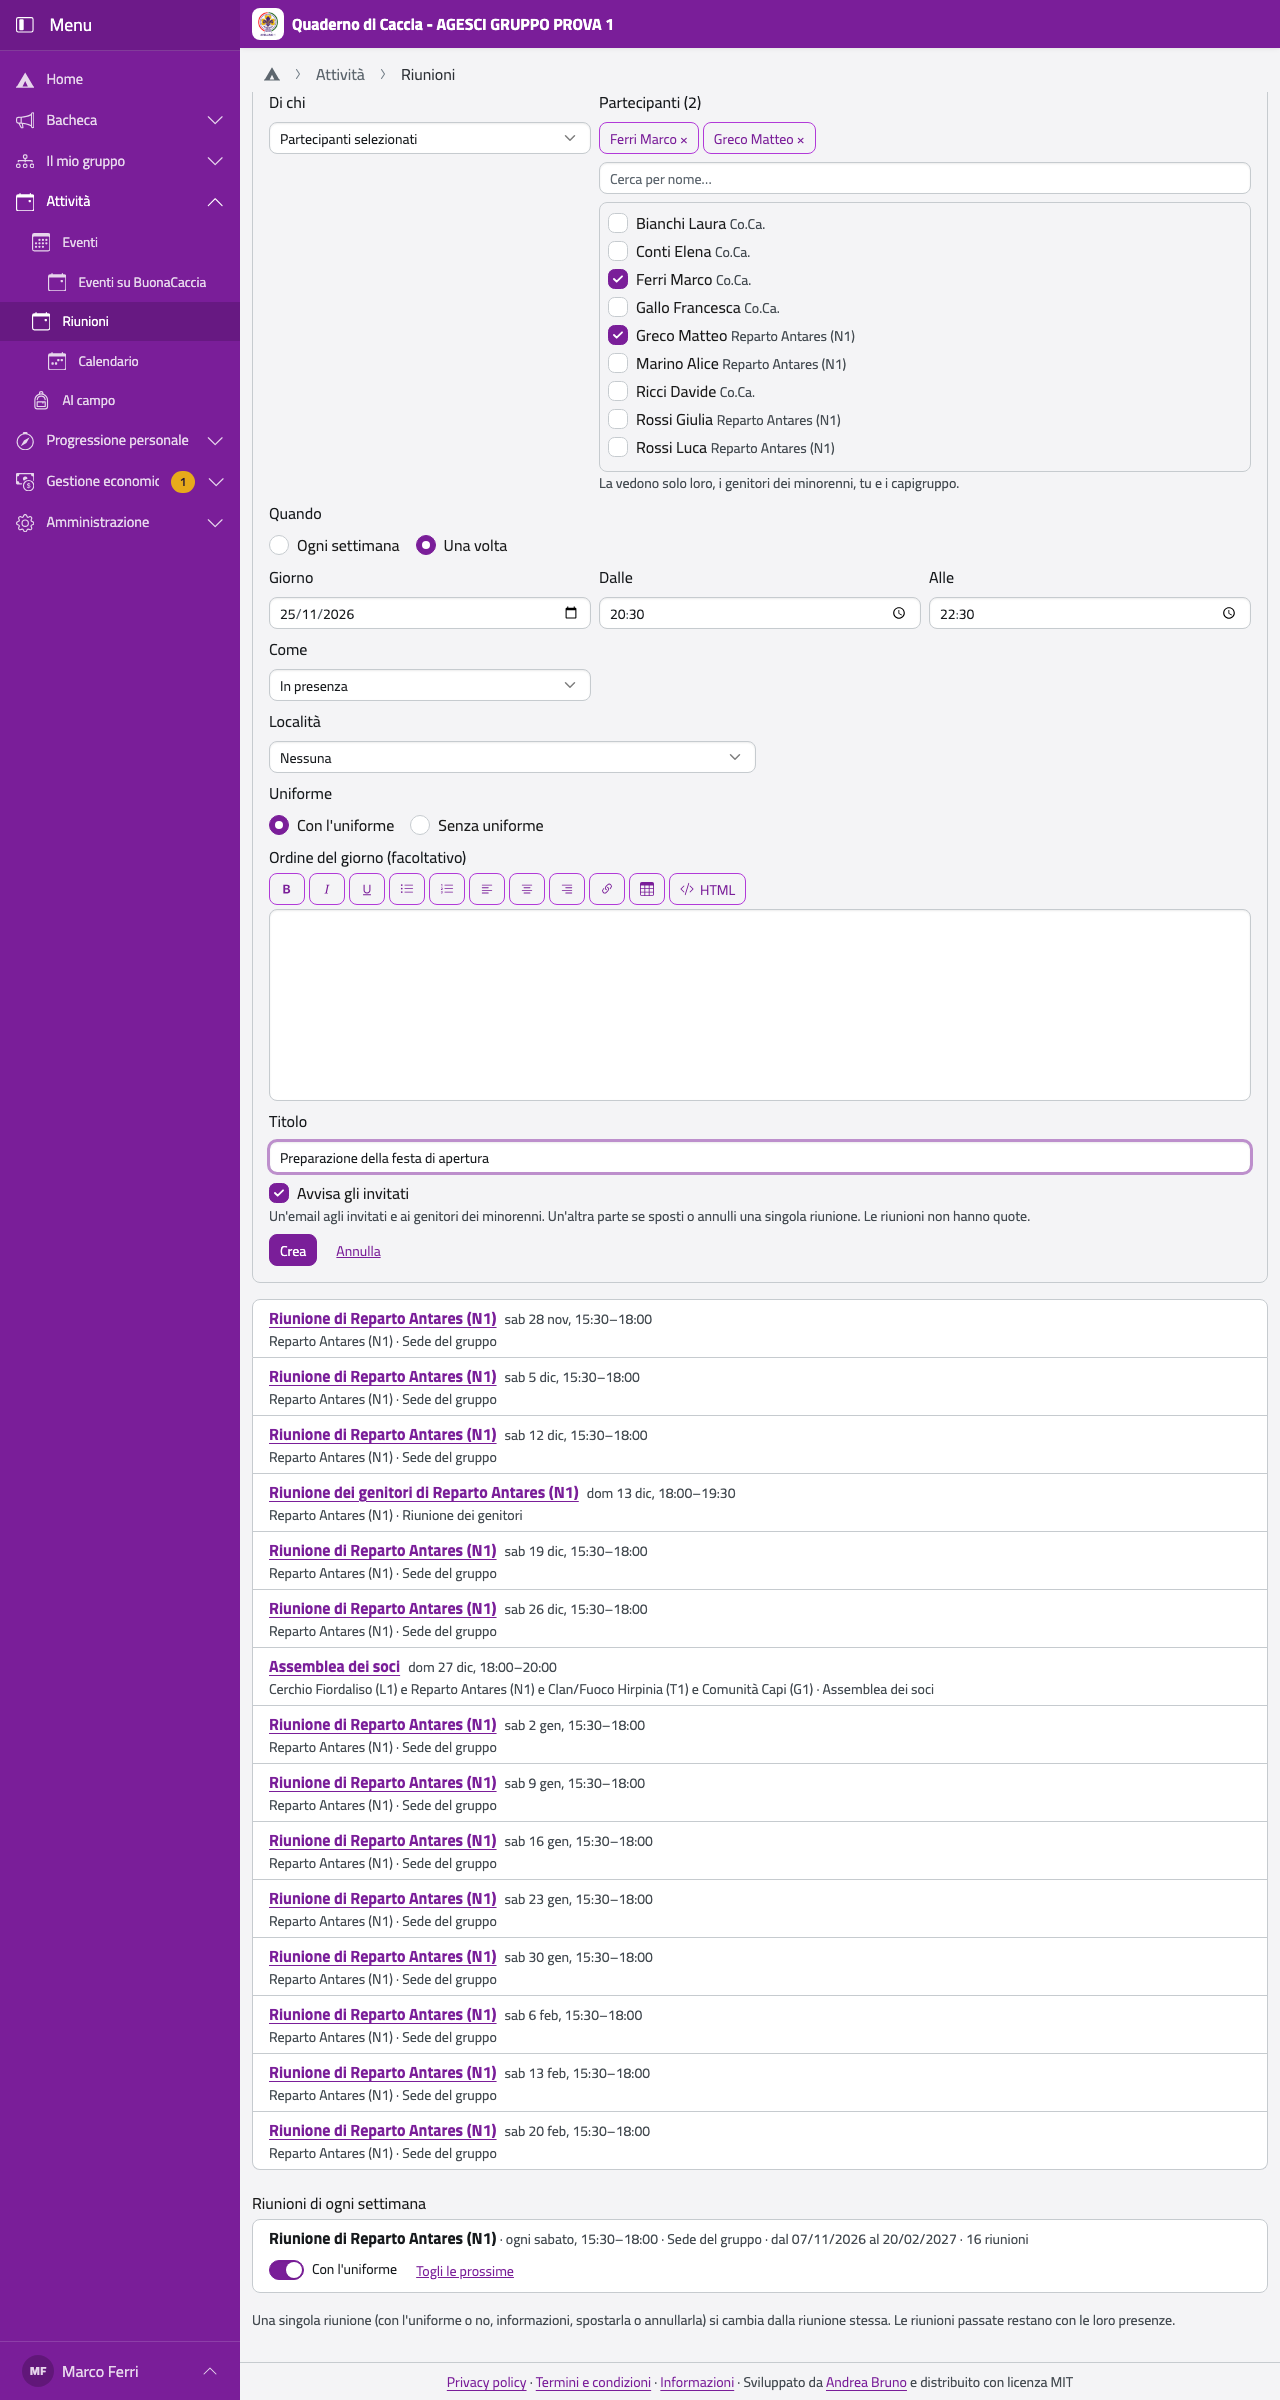
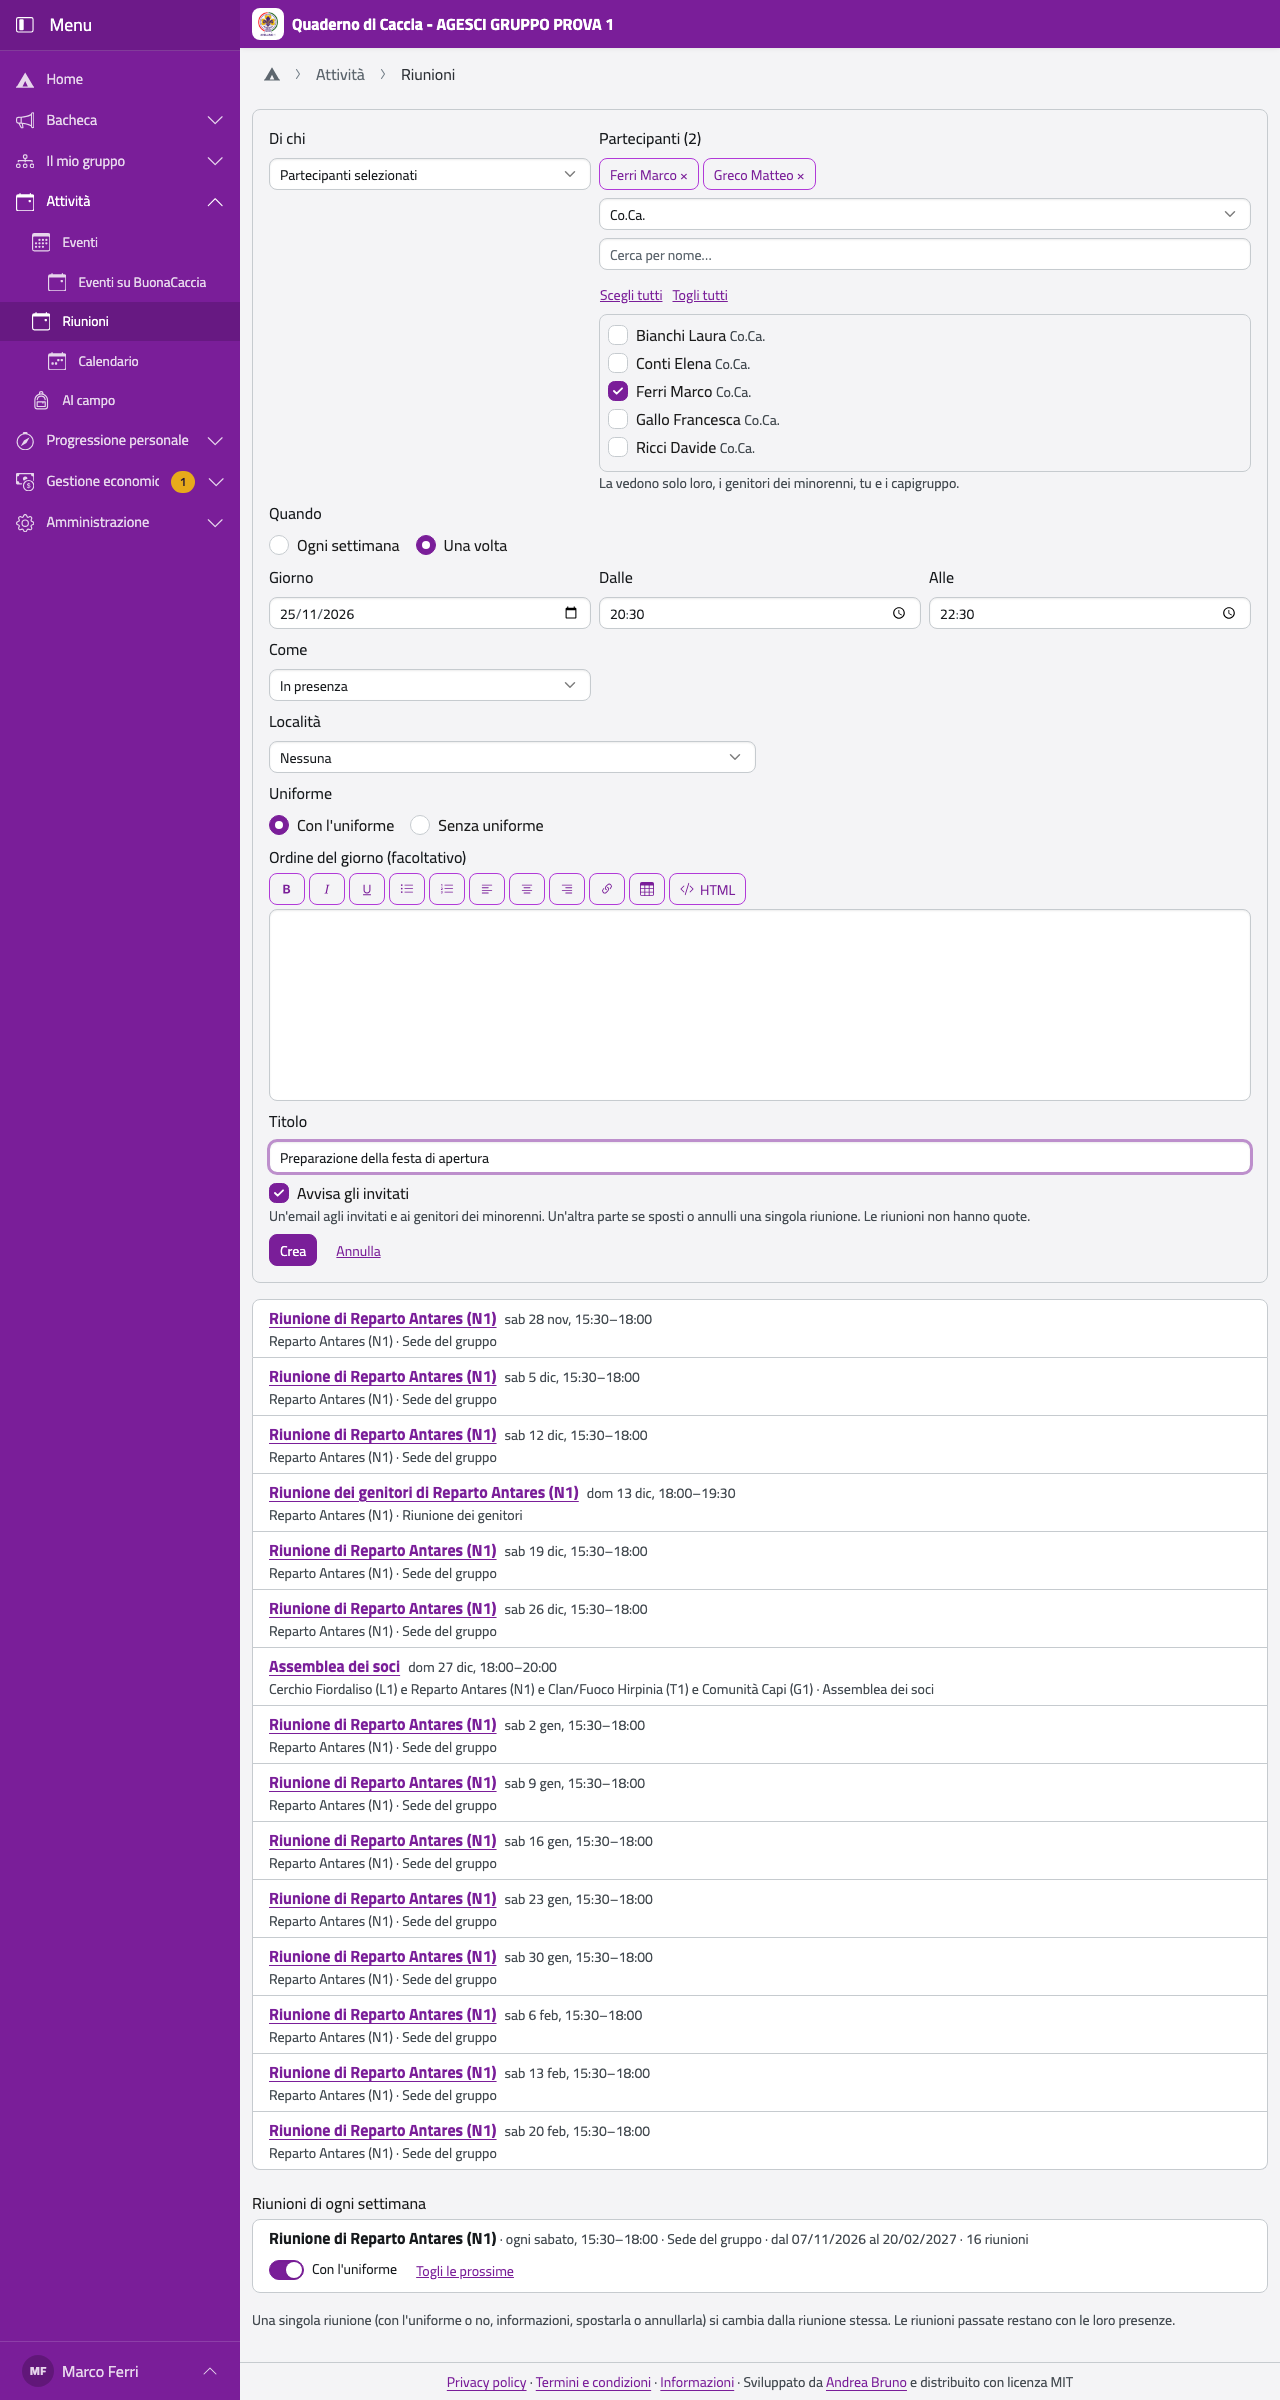
Filter by unit for people chosen one by one (#106, DEC-434)

Changed region(s): [[0.4688, 0.0312, 0.6562, 0.1875], [0.2188, 0.0312, 0.25, 0.0625]]

diff --git a/frontend/src/components/SceltaPersone.vue b/frontend/src/components/SceltaPersone.vue
@@ -1,16 +1,40 @@
 <script setup lang="ts">
-import { computed, ref } from 'vue'
+import { computed, ref, watch } from 'vue'
 
 import { coincide, type Opzione } from '@/components/sceltaDaElenco'
 
 // People chosen one by one (DEC-430): the list, filtered by what is written, with a check
-// each; who is chosen comes first, in sight also while filtering.
+// each; who is chosen comes first, in sight also while filtering. The filter by unit takes or
+// leaves everyone it shows in one go (DEC-434).
 const props = defineProps<{ id: string; opzioni: Opzione[] }>()
 const scelti = defineModel<number[]>({ required: true })
 const testo = ref('')
 const presi = computed(() => new Set(scelti.value))
 const nomiScelti = computed(() => props.opzioni.filter((o) => presi.value.has(o.id)))
-const trovate = computed(() => props.opzioni.filter((o) => coincide(o, testo.value)))
+const unita = computed(() =>
+  [...new Set(props.opzioni.flatMap((o) => (o.dettaglio ? [o.dettaglio] : [])))].sort((a, b) =>
+    a.localeCompare(b, 'it'),
+  ),
+)
+const filtro = ref('')
+const trovate = computed(() =>
+  props.opzioni.filter(
+    (o) => (!filtro.value || o.dettaglio === filtro.value) && coincide(o, testo.value),
+  ),
+)
+// The options change with who creates the meeting: a unit no longer there does not hide everyone.
+watch(unita, (u) => {
+  if (!u.includes(filtro.value)) filtro.value = ''
+})
+
+function scegliTutti() {
+  scelti.value = [...new Set([...scelti.value, ...trovate.value.map((o) => o.id)])]
+}
+
+function togliTutti() {
+  const via = new Set(trovate.value.map((o) => o.id))
+  scelti.value = scelti.value.filter((i) => !via.has(i))
+}
 </script>
 
 <template>
@@ -28,6 +52,16 @@ const trovate = computed(() => props.opzioni.filter((o) => coincide(o, testo.val
         {{ o.nome }} ×
       </button>
     </div>
+    <select
+      v-if="unita.length > 1"
+      :id="`${id}-unita`"
+      v-model="filtro"
+      class="form-control form-control-sm mb-3"
+      aria-label="Filtra per unità"
+    >
+      <option value="">Tutte le unità</option>
+      <option v-for="u in unita" :key="u" :value="u">{{ u }}</option>
+    </select>
     <input
       :id="`${id}-cerca`"
       v-model="testo"
@@ -37,6 +71,24 @@ const trovate = computed(() => props.opzioni.filter((o) => coincide(o, testo.val
       aria-label="Cerca una persona"
       @keydown.enter.prevent
     />
+    <div v-if="filtro" class="d-flex gap-3 mb-1 small">
+      <button
+        type="button"
+        class="btn btn-link btn-sm p-0"
+        :disabled="trovate.every((o) => presi.has(o.id))"
+        @click="scegliTutti"
+      >
+        Scegli tutti
+      </button>
+      <button
+        type="button"
+        class="btn btn-link btn-sm p-0"
+        :disabled="!trovate.some((o) => presi.has(o.id))"
+        @click="togliTutti"
+      >
+        Togli tutti
+      </button>
+    </div>
     <div class="qdc-scelta-persone border rounded p-3">
       <div v-for="o in trovate" :key="o.id" class="form-field mb-1">
         <input :id="`${id}-${o.id}`" v-model="scelti" type="checkbox" class="check" :value="o.id" />

diff --git a/frontend/src/__tests__/scelta-persone.spec.ts b/frontend/src/__tests__/scelta-persone.spec.ts
@@ -1,0 +1,47 @@
+import { mount } from '@vue/test-utils'
+import { describe, expect, it } from 'vitest'
+
+import SceltaPersone from '@/components/SceltaPersone.vue'
+
+const opzioni = [
+  { id: 1, nome: 'Bianchi Anna', dettaglio: 'Co.Ca.' },
+  { id: 2, nome: 'Verdi Luca', dettaglio: 'Reparto' },
+  { id: 3, nome: 'Neri Sara', dettaglio: 'Reparto' },
+  { id: 4, nome: 'Rossi Ugo' },
+]
+
+function monta(scelti: number[], voci = opzioni) {
+  const campo = mount(SceltaPersone, {
+    props: {
+      id: 'p',
+      opzioni: voci,
+      modelValue: scelti,
+      'onUpdate:modelValue': (v: number[]) => campo.setProps({ modelValue: v }),
+    },
+  })
+  return campo
+}
+
+describe('people chosen one by one, by unit', () => {
+  it('shows one unit and takes or leaves only who is shown', async () => {
+    const campo = monta([1])
+    const pulsante = (testo: string) => campo.findAll('button').find((b) => b.text() === testo)!
+    expect(campo.findAll('option').map((o) => o.text())).toEqual([
+      'Tutte le unità',
+      'Co.Ca.',
+      'Reparto',
+    ])
+    expect(pulsante('Scegli tutti')).toBeUndefined()
+    await campo.get('#p-unita').setValue('Reparto')
+    expect(campo.findAll('.qdc-scelta-persone input')).toHaveLength(2)
+    await pulsante('Scegli tutti').trigger('click')
+    expect(campo.props('modelValue')).toEqual([1, 2, 3])
+    await campo.get('#p-cerca').setValue('neri')
+    await pulsante('Togli tutti').trigger('click')
+    expect(campo.props('modelValue')).toEqual([1, 2])
+  })
+
+  it('has no filter where there is one unit only', () => {
+    expect(monta([], opzioni.slice(0, 1)).find('#p-unita').exists()).toBe(false)
+  })
+})

diff --git a/frontend/scripts/schermate.ts b/frontend/scripts/schermate.ts
@@ -775,10 +775,12 @@ const SCENE: Scena[] = [
       await pagina.locator('.qdc-scelta-persone input').first().waitFor()
       await pagina.locator('.qdc-scelta-persone input').nth(2).check()
       await pagina.locator('.qdc-scelta-persone input').nth(4).check()
+      await pagina.getByLabel('Filtra per unità').selectOption({ index: 1 })
       await pagina.getByLabel('Una volta').check()
       await pagina.getByLabel('Dalle').fill('20:30')
       await pagina.getByLabel('Titolo').fill('Preparazione della festa di apertura')
     },
+    mostra: 'Di chi',
     intera: true,
   },
   {

diff --git a/docs/analisi/analisi-requisiti.md b/docs/analisi/analisi-requisiti.md
@@ -572,6 +572,7 @@ Decisa con il maintainer il 31/10/2026: chi vuole entrare nel gruppo si mette in
 | DEC-431 | **Avviso alla creazione di una riunione** (cambia DEC-142 e DEC-310): creando una riunione di qualunque tipo una spunta «Avvisa gli invitati» manda l'email agli invitati e ai genitori dei minorenni. È accesa per le riunioni singole e per quelle con partecipanti selezionati (DEC-430), spenta per le altre serie; per una serie parte una sola email con giorno, orario e periodo. Nelle riunioni con partecipanti selezionati vale anche per chi si aggiunge dopo. È un'email facoltativa, come quelle di annullamento e spostamento (DEC-157). Riunioni dei genitori e assemblea non hanno la spunta: resta la convocazione (DEC-327). | DEC-142, DEC-310, issue #100, 25/11 |
 | DEC-432 | **I miei eventi e gli altri** (estende DEC-286 e DEC-334): chi vede anche eventi a cui non è invitato, per esempio un capogruppo, li distingue da quelli a cui è invitato lui o un suo figlio/a, tranne chi ha detto che non partecipa; per chi è nello staff contano come suoi anche quelli delle unità che serve, con le loro squadriglie e le unità collegate. Nel mese i miei hanno il fondo pieno, gli altri solo il bordo colorato; in «Prossimi eventi» e negli elenchi delle pagine Eventi e Riunioni i miei hanno una barra colorata a lato. La distinzione e la sua legenda compaiono solo se ci sono entrambi i tipi. | DEC-286, DEC-334, issue #101, 25/11 |
 | DEC-433 | **Avviso nei browser troppo vecchi**: dove mancano le funzioni di base di Bootstrap 6 (si controllano le funzioni, non la versione) in cima alla pagina compare «Il tuo dispositivo non è abbastanza aggiornato per usare bene il Quaderno di Caccia: aggiornalo o apri l'app da un altro dispositivo». Si vede anche se l'app non parte; si può chiudere e ricompare alla prossima apertura. Chi può usare l'app non lo vede. Nessuna versione dell'app per i browser vecchi. | issue #102, 25/11 |
+| DEC-434 | **Partecipanti selezionati: filtro per unità** (estende DEC-430): nella scelta delle persone, prima della ricerca per nome, un menu mostra tutte le unità o una sola (anche la Co.Ca.); compare se c'è più di un'unità. Con un'unità scelta «Scegli tutti» e «Togli tutti» valgono solo per le persone mostrate. Chi è già scelto resta scelto cambiando filtro. | DEC-430, issue #106, 25/11 |
 
 ## Architettura tecnica
 

diff --git a/docs/manuale/capo/riunioni.md b/docs/manuale/capo/riunioni.md
@@ -89,7 +89,9 @@ spunta: gli invitati ricevono la convocazione.
 ## Partecipanti selezionati
 
 In **Di chi** scegli **Partecipanti selezionati** quando vuoi invitare proprio alcune persone, per
-esempio un gruppo di lavoro. Le cerchi per nome e le spunti; tu sei già tra loro e puoi toglierti.
+esempio un gruppo di lavoro. Le cerchi per nome e le spunti; tu sei già tra loro e puoi toglierti. Con il menu delle unità vedi
+solo le persone di un'unità (o della Co.Ca.) e con **Scegli tutti** e **Togli tutti** le spunti o le
+togli insieme; chi è già scelto resta scelto anche se cambi unità.
 Il **Titolo** è obbligatorio.
 
 Lo staff sceglie tra i ragazzi/e delle sue unità (anche collegate) e tutti i capi; i capigruppo tra
